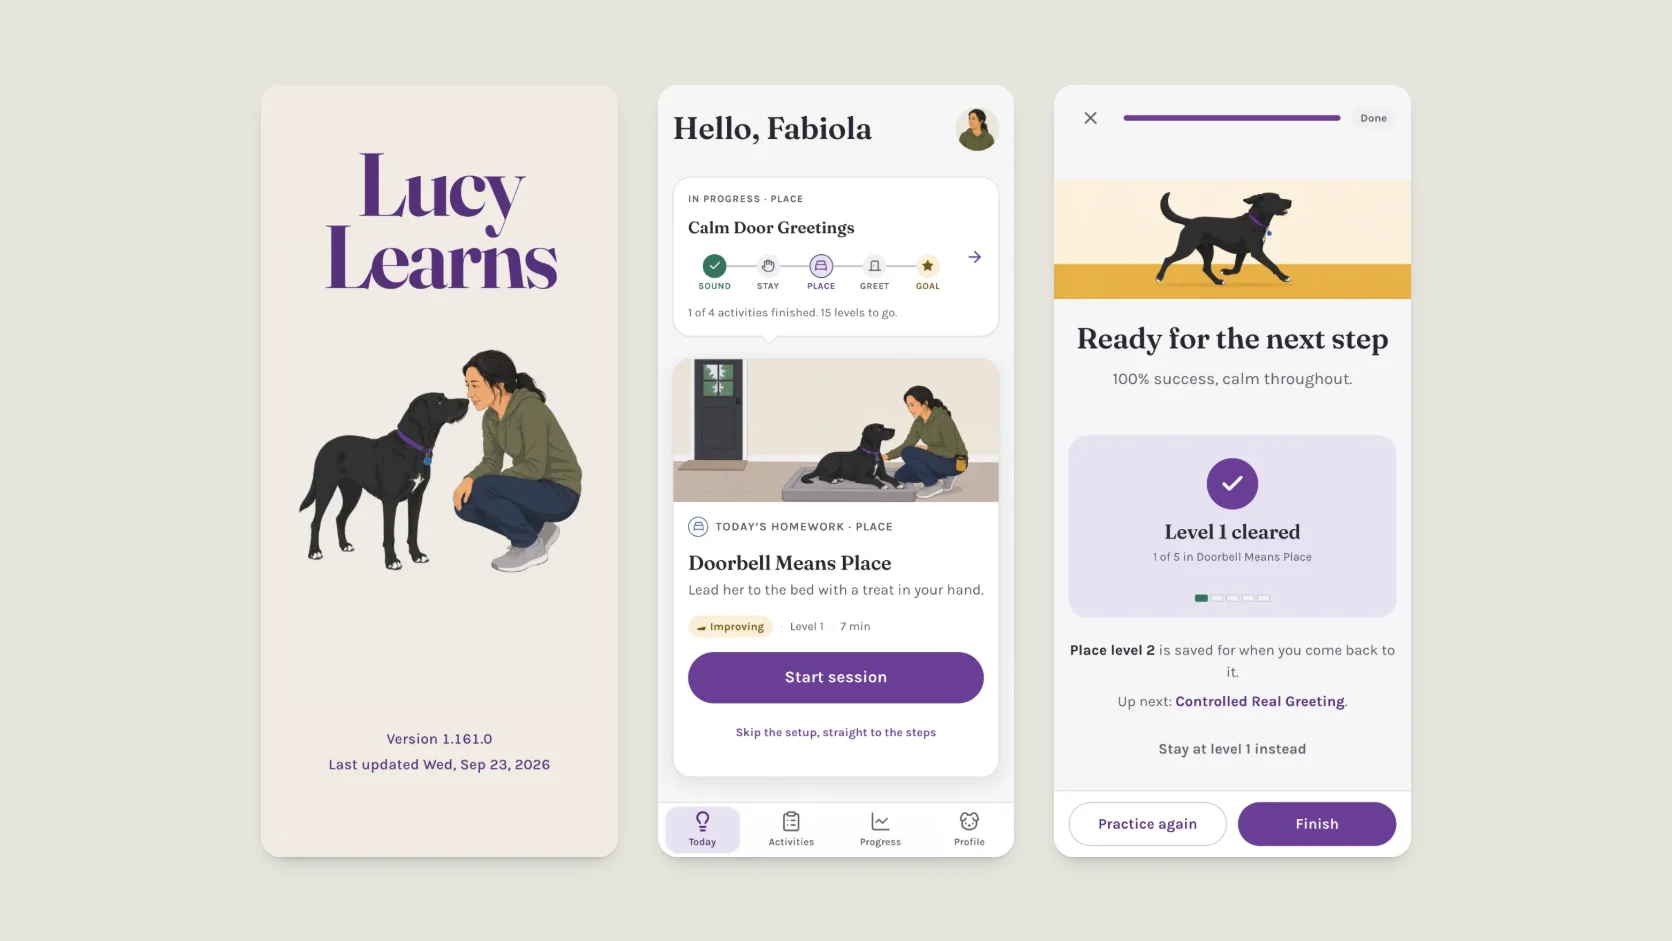
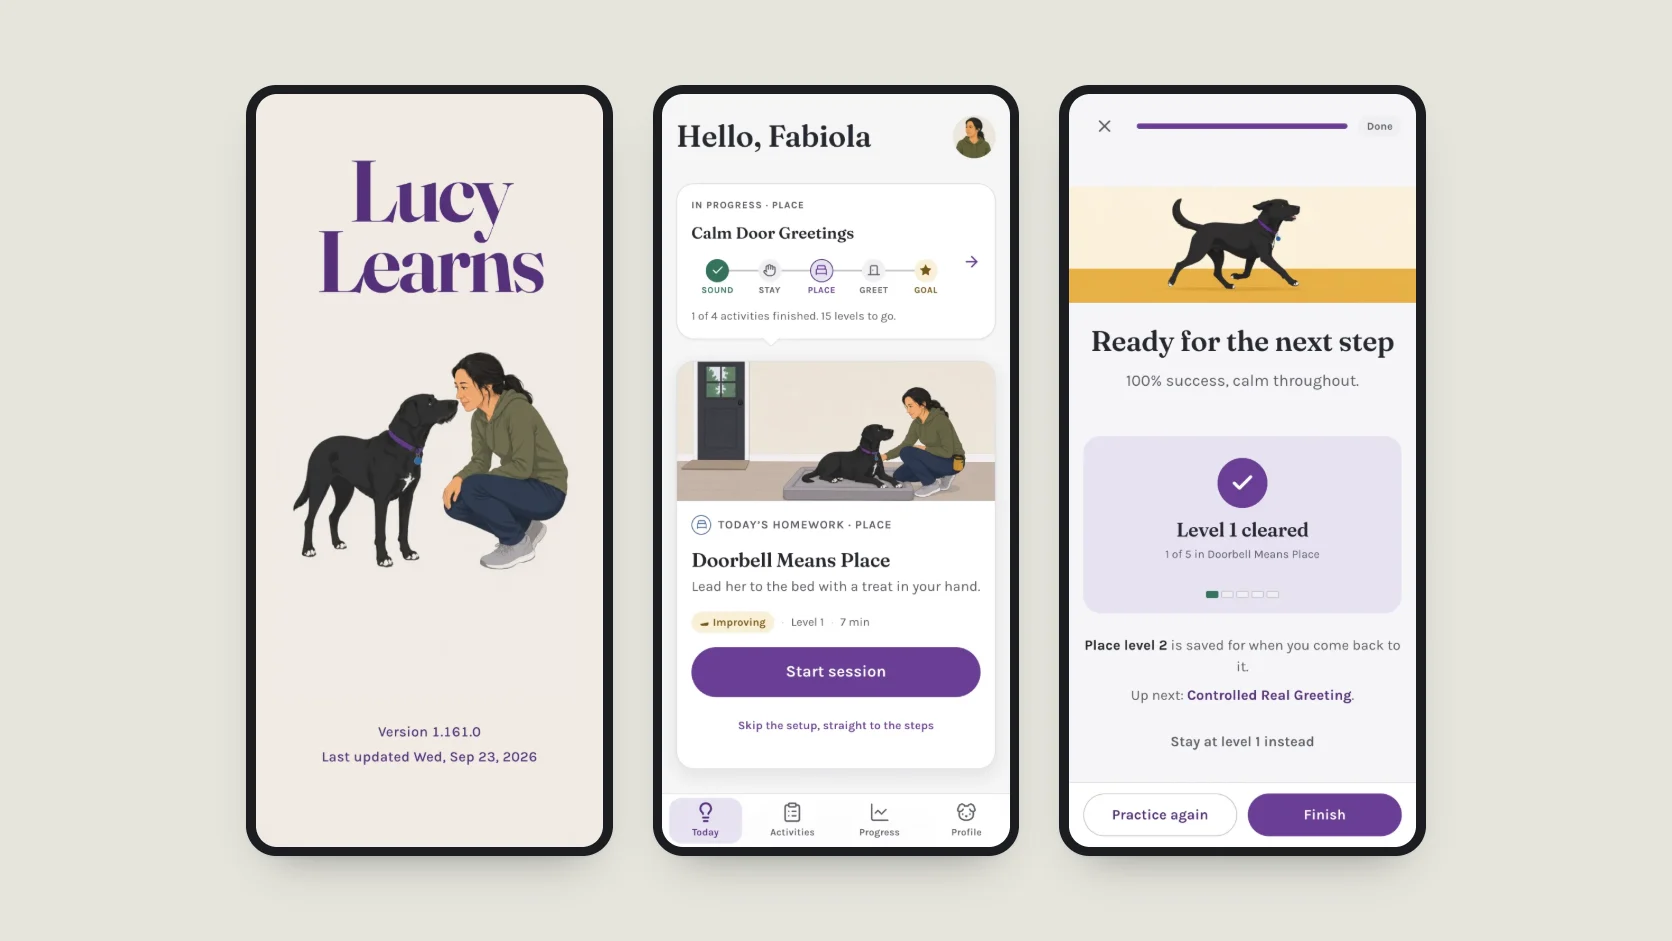
The homepage's Lucy Learns card puts its three screens in the write-up's phone: style.css's own .build-phone, the 8px #1b1d22 bezel at a 26px corner and --shadow-device, drawn at the 314px the write-up's hero prints it and zoomed to 0.82 of the picture's height, so the ring is as thin against the sc

Changed region(s): [[0.1244, 0.0925, 0.8708, 0.9245], [0.6842, 0.4931, 0.7775, 0.6472]]

diff --git a/index.html b/index.html
@@ -973,7 +973,7 @@
           </a>
           <a class="case-card reveal" href="case-study/lucy-learns.html" aria-label="Read how I built it: Lucy Learns">
             <div class="case-thumb">
-              <img decoding="async" loading="lazy" src="img/products/lucy-learns-card.webp" alt="Three Lucy Learns screens: the splash with a black Labrador and her person, today&rsquo;s session, and a cleared level." width="1672" height="941"/>
+              <img decoding="async" loading="lazy" src="img/products/lucy-learns-card.webp?v=2" alt="Three Lucy Learns screens: the splash with a black Labrador and her person, today&rsquo;s session, and a cleared level." width="1672" height="941"/>
             </div>
             <h3>Lucy Learns</h3>
             <p class="case-desc">A dog trainer&rsquo;s handouts turned into sessions you can run with a leash in one hand: one instruction a screen, offline.</p>
